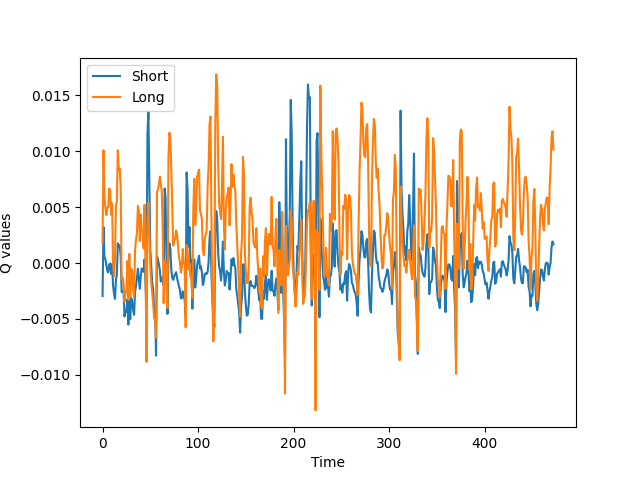
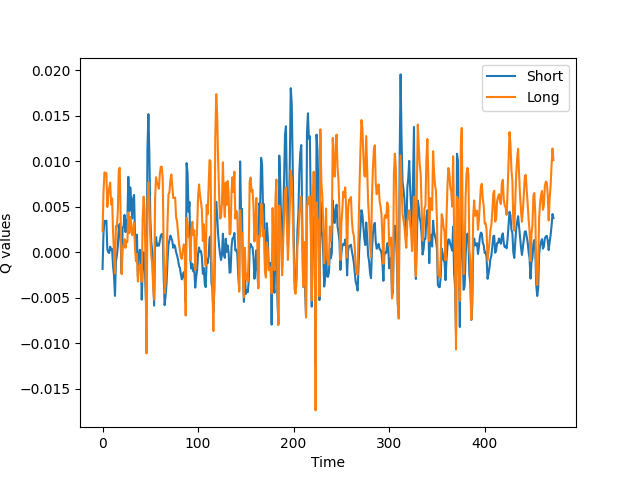
Added Prioritized Experience Replay - WITH BETTER RESULTS! Gradually increasing beta

diff --git a/TDQN.py b/TDQN.py
@@ -378,6 +378,9 @@ class TDQN:
         # Initialization of the tensorboard writer
         self.writer = SummaryWriter('runs/' + datetime.datetime.now().strftime("%d/%m/%Y-%H:%M:%S"))
 
+        self.beta_start = 0.4
+        self.beta_frames = 200000  # total steps to reach beta = 1.0
+
     def getNormalizationCoefficients(self, tradingEnv):
         """
         GOAL: Retrieve the coefficients required for the normalization
@@ -540,7 +543,9 @@ class TDQN:
 
             # Sample a batch of experiences from the replay memory
             #state, action, reward, nextState, done = self.replayMemory.sample(batchSize)
-            sample = self.replayMemory.sample(batchSize, beta=0.4)
+            #sample = self.replayMemory.sample(batchSize, beta=0.4)
+            beta = min(1.0, self.beta_start + (1.0 - self.beta_start) * self.iterations / self.beta_frames)
+            sample = self.replayMemory.sample(batchSize, beta=beta)
 
             state = torch.tensor(sample["state"], dtype=torch.float32, device=self.device)
             nextState = torch.tensor(sample["next_state"], dtype=torch.float32, device=self.device)
